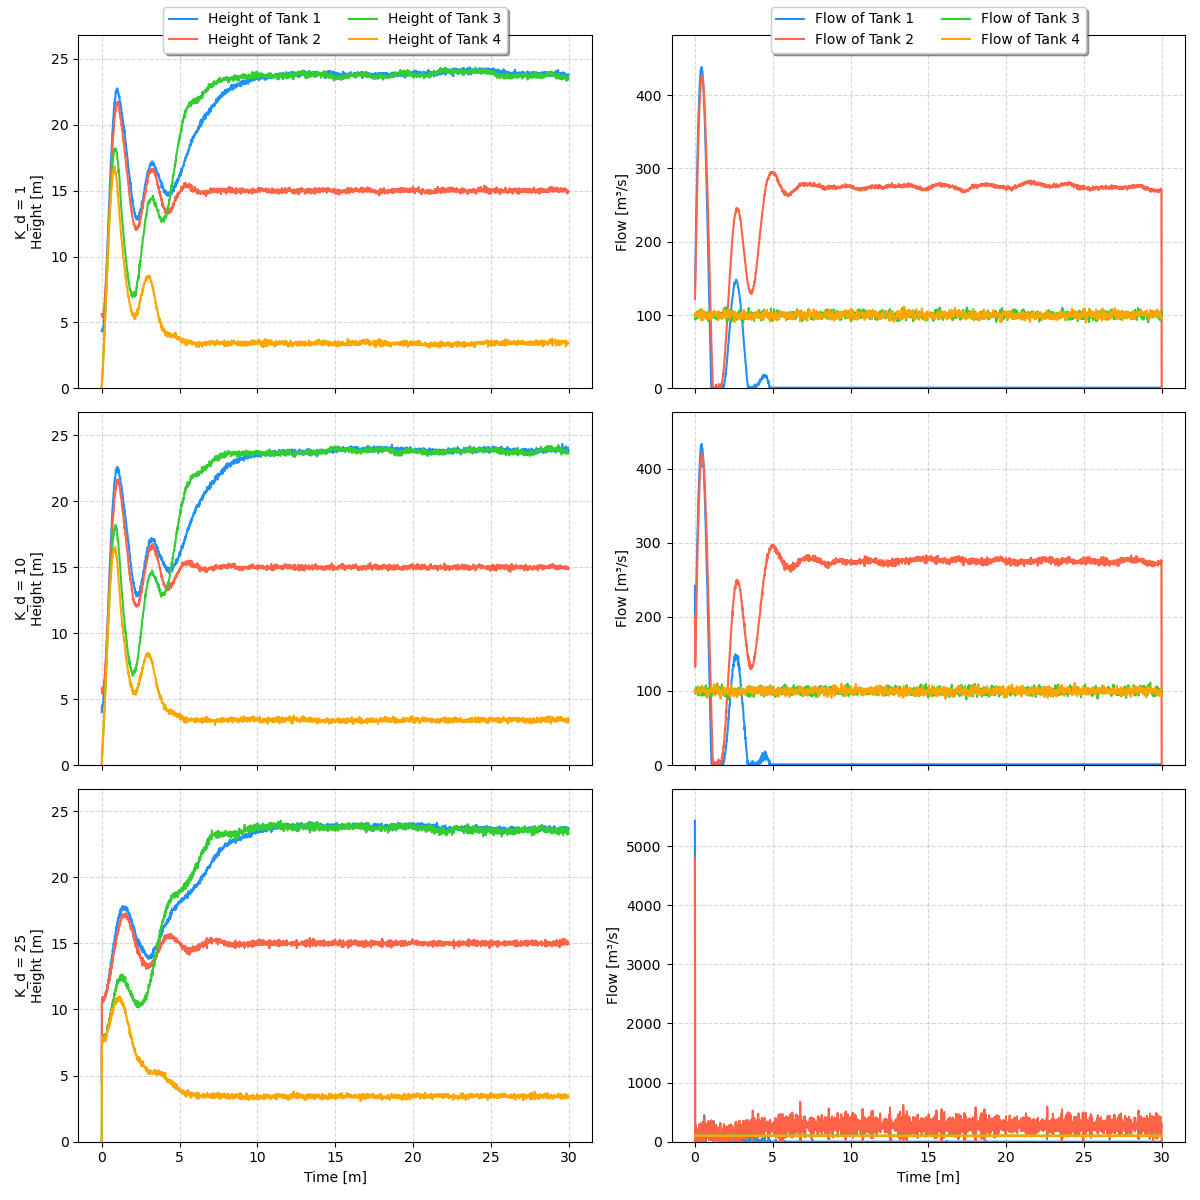
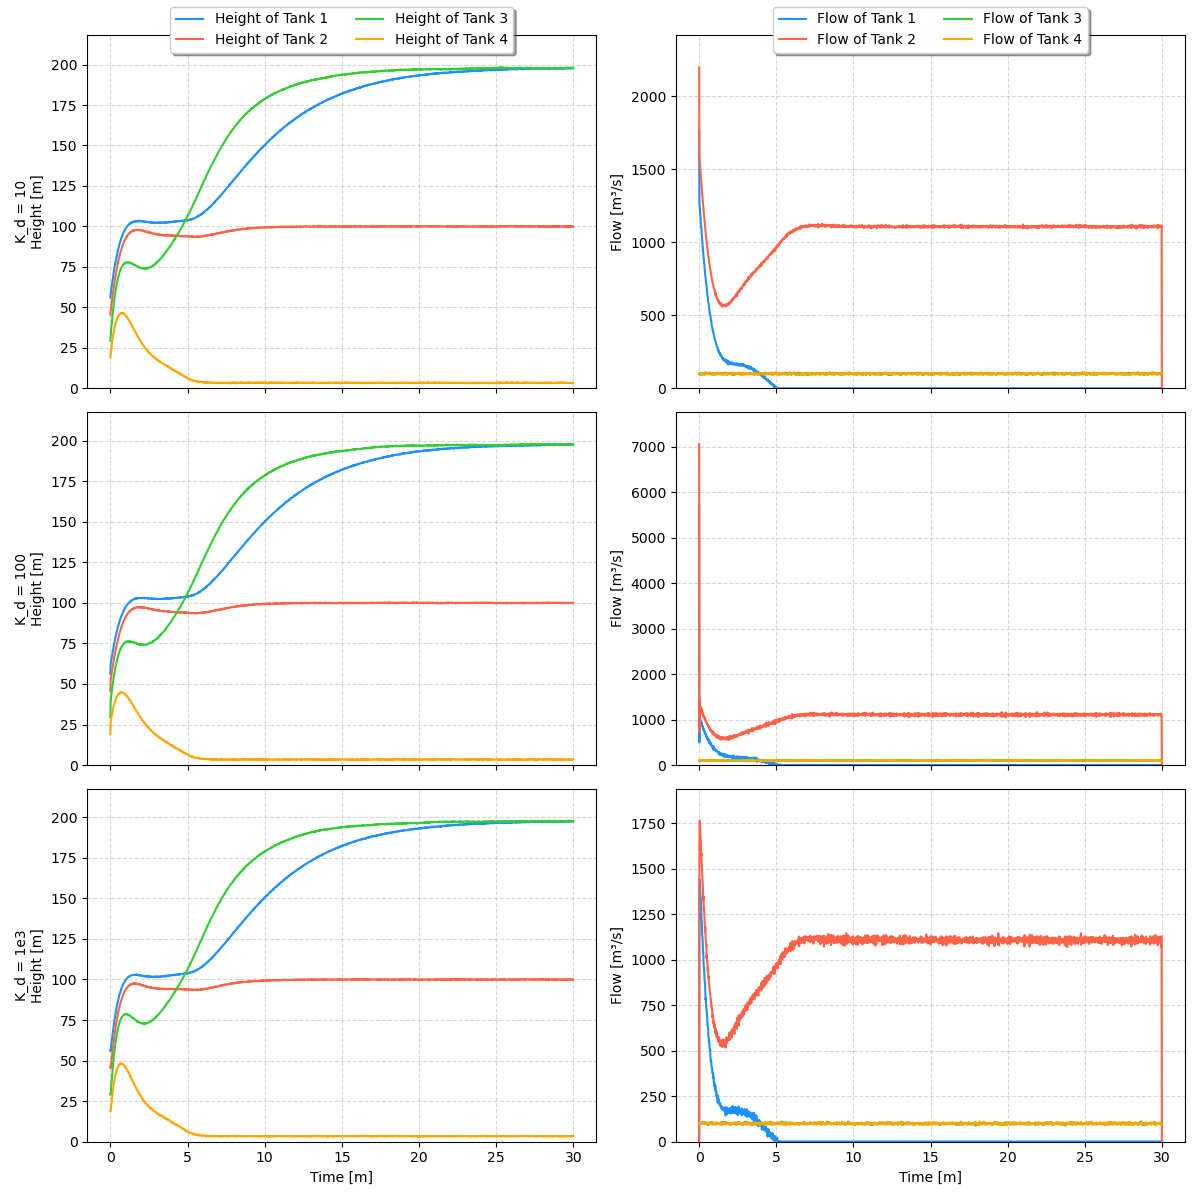
some p3

diff --git a/Problem_3.py b/Problem_3.py
@@ -25,7 +25,7 @@ a1, a2, a3, a4, A1, A2, A3, A4, gamma1, gamma2, g, rho = p
 delta_t = 1
 
 # Define distrubances
-goal = np.array([15.0, 15.0])  # Height of Tank 1 and 2
+goal = np.array([100.0, 100.0])  # Height of Tank 1 and 2
 u0 = np.array([F1, F2])
 Rvv = np.eye(4)*0.01
 umin = 1
@@ -43,12 +43,7 @@ if sys.argv[1] == 'test':
     u_array = np.zeros((2, tf))
     u_array[0, :] = F1
     u_array[1, :] = F2
-    
-    print(Model.StateEquation(0, state_0, u_array[:, 0]))
-    xs = fsolve(lambda x: Model.StateEquation(0, x, u_array[:, 0]), state_0)
-    print(xs)
-    print(Model.StateEquation(0, xs, u_array[:, 0]))
-    sys.exit()
+
     t,x,y,d,h = Model.OpenLoop((t0, tf), state_0, u_array)
     
     plt.plot(t/60, h[0, :], label='Height of Tank 1', color='dodgerblue', ls='-')
@@ -69,7 +64,7 @@ if sys.argv[1] == 'test':
 
 setpoint = goal
 
-Kp = 10
+Kp = 30
 
 if sys.argv[1] == 'p':
     controller_p = pid.PIDController(5, 0, 0, setpoint, delta_t, umin, umax)
@@ -142,9 +137,9 @@ if sys.argv[1] == 'p':
     plt.savefig('figures/Problem_3_Kp.png')
     # plt.show()
 
-Ki = 0.1
+Ki = 0.3
 if sys.argv[1] == 'pi':
-    controller_pi = pid.PIDController(Kp, 0.05, 0, setpoint, delta_t, umin, umax)
+    controller_pi = pid.PIDController(Kp, 0.1, 0, setpoint, delta_t, umin, umax)
 
     t, x, u, d, h = Model.ClosedLoop((t0, tf), state_0, controller_pi)
 
@@ -161,7 +156,7 @@ if sys.argv[1] == 'pi':
 
     axes[0, 0].set_ylim(0, np.max(h)*1.1)
     axes[0, 1].set_ylim(0, np.max(u)*1.1)
-    axes[0, 0].set_ylabel('K_i = 0.05\nHeight [m]')
+    axes[0, 0].set_ylabel('K_i = 0.1\nHeight [m]')
     axes[0, 1].set_ylabel('Flow [m³/s]')
     axes[0, 0].grid(True, linestyle='--', alpha=0.5)
     axes[0, 1].grid(True, linestyle='--', alpha=0.5)
@@ -214,9 +209,9 @@ if sys.argv[1] == 'pi':
     plt.savefig('figures/Problem_3_Ki.png')
     # plt.show()
 
-Kd = 10
+Kd = 100
 if sys.argv[1] == 'pid':
-    controller_pid = pid.PIDController(Kp, Ki, 1, setpoint, delta_t, umin, umax)
+    controller_pid = pid.PIDController(Kp, Ki, 10, setpoint, delta_t, umin, umax)
 
     t, x, u, d, h = Model.ClosedLoop((t0, tf), state_0, controller_pid)
 
@@ -233,7 +228,7 @@ if sys.argv[1] == 'pid':
 
     axes[0, 0].set_ylim(0, np.max(h)*1.1)
     axes[0, 1].set_ylim(0, np.max(u)*1.1)
-    axes[0, 0].set_ylabel('K_d = 1\nHeight [m]')
+    axes[0, 0].set_ylabel('K_d = 10\nHeight [m]')
     axes[0, 1].set_ylabel('Flow [m³/s]')
     axes[0, 0].grid(True, linestyle='--', alpha=0.5)
     axes[0, 1].grid(True, linestyle='--', alpha=0.5)
@@ -257,7 +252,7 @@ if sys.argv[1] == 'pid':
     axes[1, 0].grid(True, linestyle='--', alpha=0.5)
     axes[1, 1].grid(True, linestyle='--', alpha=0.5)
 
-    controller_pid = pid.PIDController(Kp, Ki, 500, setpoint, delta_t, umin, umax)
+    controller_pid = pid.PIDController(Kp, Ki, -1e2, setpoint, delta_t, umin, umax)
 
     t, x, u, d, h = Model.ClosedLoop((t0, tf), state_0, controller_pid)
 
@@ -270,7 +265,7 @@ if sys.argv[1] == 'pid':
 
     axes[2, 0].set_ylim(0, np.max(h)*1.1)
     axes[2, 1].set_ylim(0, np.max(u)*1.1)
-    axes[2, 0].set_ylabel('K_d = 25\nHeight [m]')
+    axes[2, 0].set_ylabel('K_d = 1e3\nHeight [m]')
     axes[2, 1].set_ylabel('Flow [m³/s]')
     axes[2, 0].set_xlabel('Time [m]')
     axes[2, 1].set_xlabel('Time [m]')

diff --git a/src/FourTankSystem.py b/src/FourTankSystem.py
@@ -111,6 +111,7 @@ class FourTankSystem:
         self.CheckInputDimension(states, d)
 
         state_0, is_deterministic = self.SetLoopStates(states, d)
+        d = state_0[4:]
         if callable(u):
             def f_steady(x):
                 states = np.concatenate([x, d])
